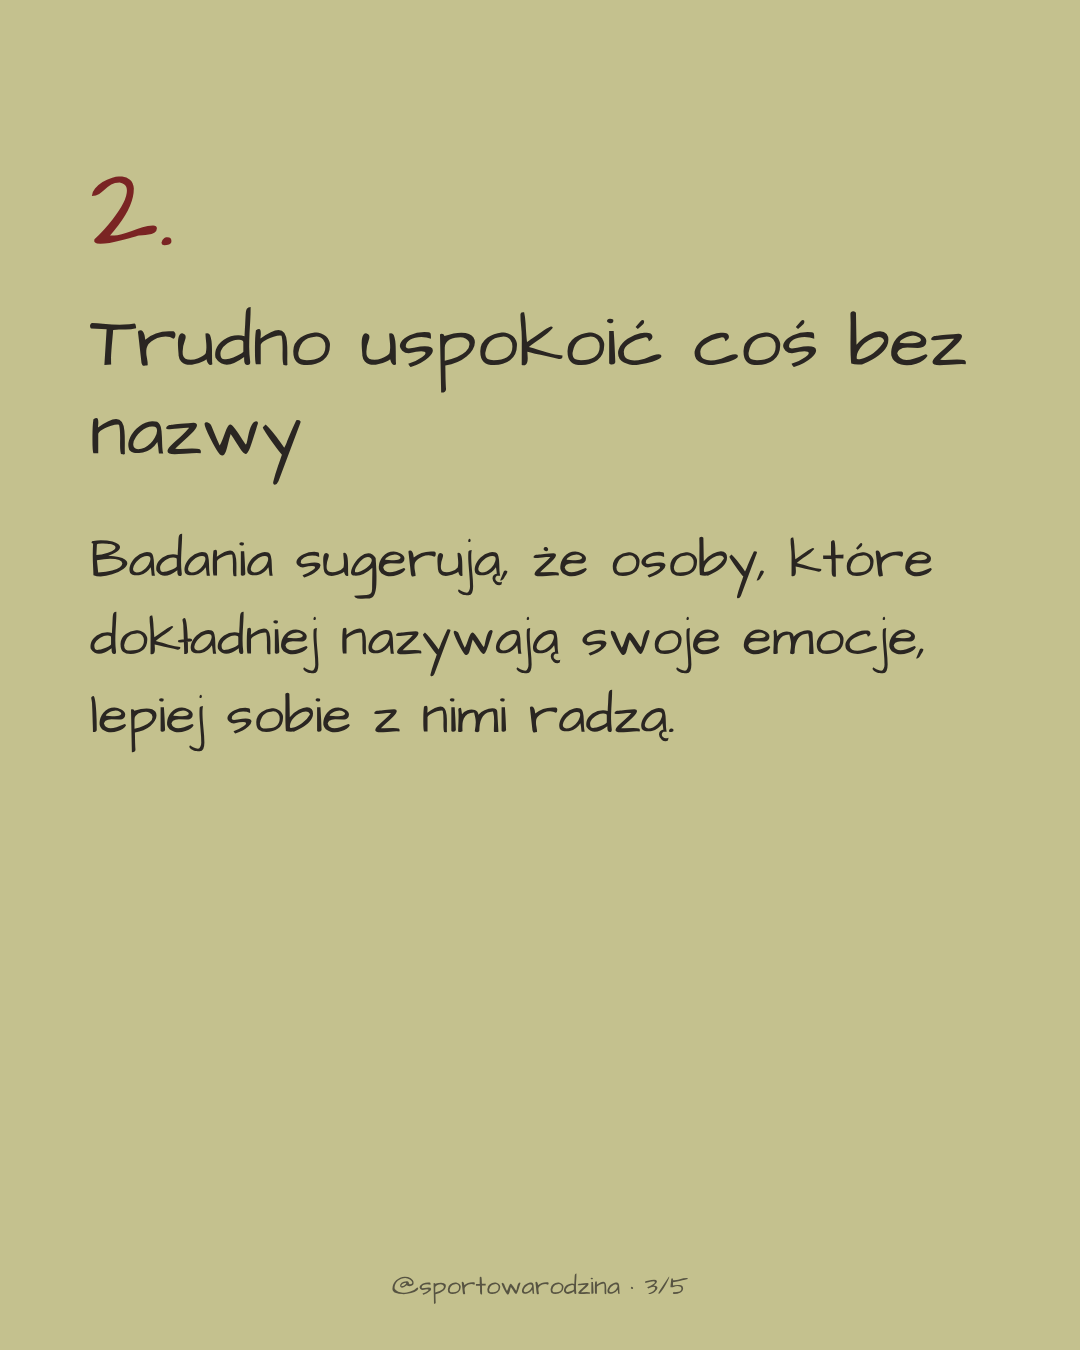
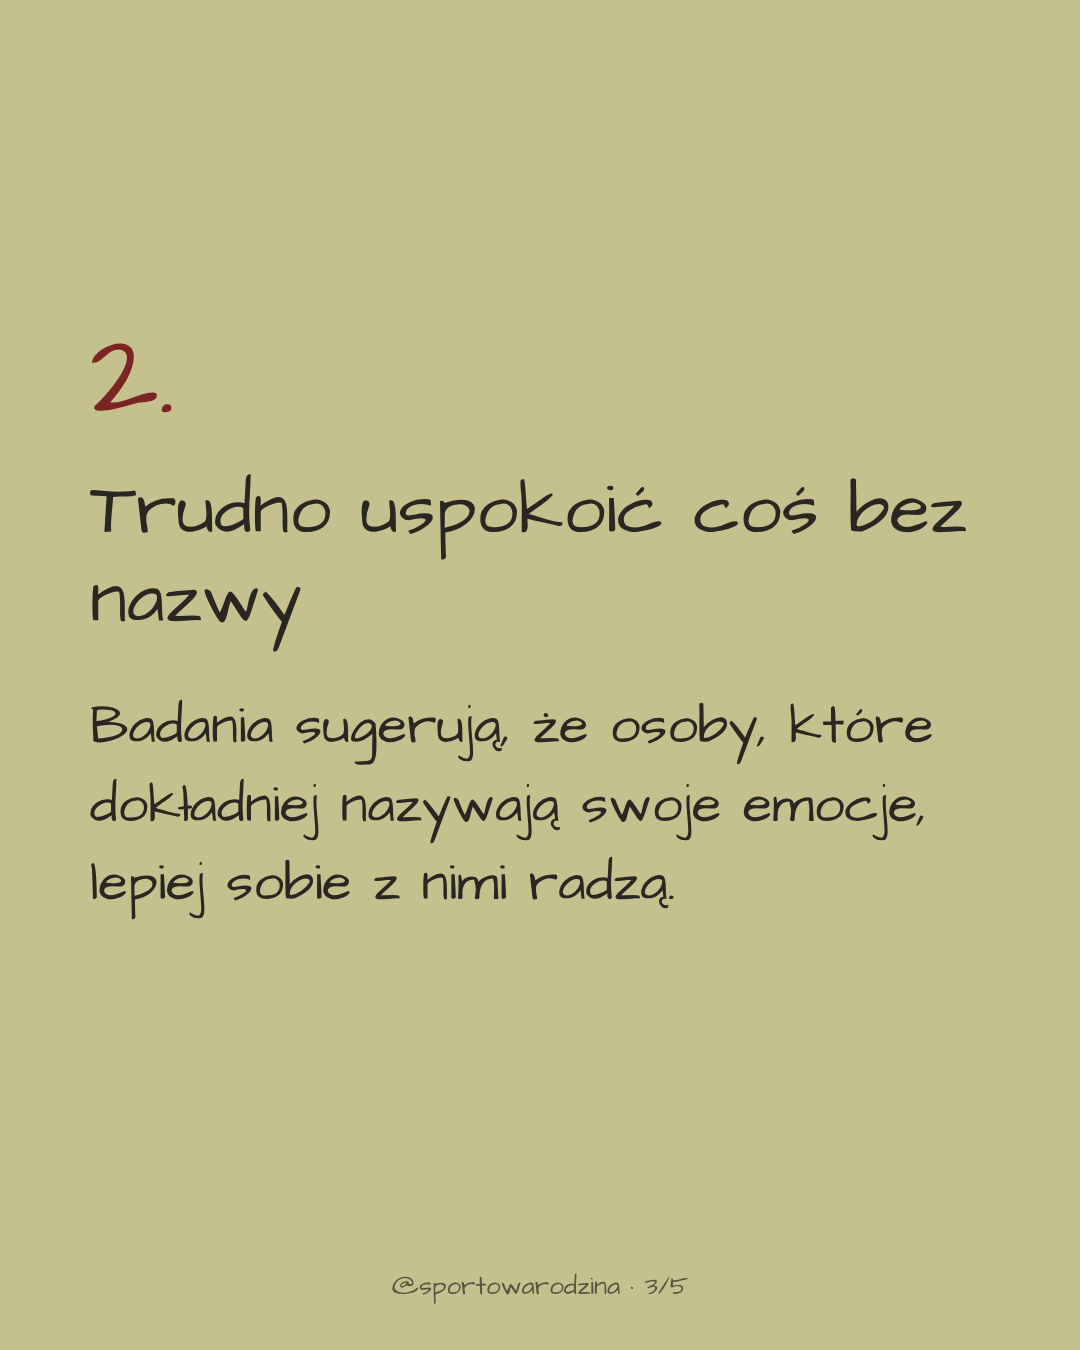
Rodzina: tekst slajdów 2-4 wyśrodkowany w pionie
Claude-Session: https://claude.ai/code/session_01A5PTvWpyS7iEo6fG2kmJPS

diff --git a/tools/family.js b/tools/family.js
@@ -72,10 +72,10 @@ function slide(s, i) {
   }
   if (s.kind === 'point') {
     const n = spec.slides.slice(0, i + 1).filter(x => x.kind === 'point').length;
-    return `<div style="position:absolute;left:90px;right:90px;top:150px">
+    return `<div style="position:absolute;left:90px;right:90px;top:0;bottom:110px;display:flex;flex-direction:column;justify-content:center"><div>
       <div class="a" style="font-size:120px;line-height:1">${n}.</div>
       <div style="font-size:74px;line-height:1.2;margin:30px 0 44px">${hl(s.title)}</div>
-      <div style="font-size:${len(s.body) < 160 ? 54 : 48}px;line-height:1.45">${hl(s.body)}</div></div>${foot(i)}`;
+      <div style="font-size:${len(s.body) < 160 ? 54 : 48}px;line-height:1.45">${hl(s.body)}</div></div></div>${foot(i)}`;
   }
   return `<div class="c" style="top:0;bottom:0;display:flex;align-items:center;justify-content:center;flex-direction:column;gap:40px">
     <div style="font-size:${len(s.text) < 60 ? 78 : 64}px;line-height:1.25">${hl(s.text)}</div>
